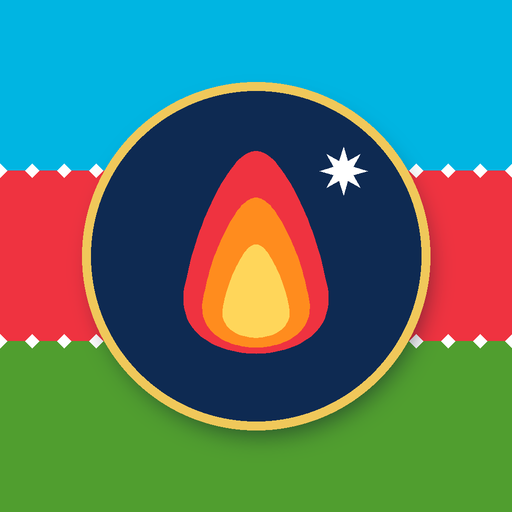
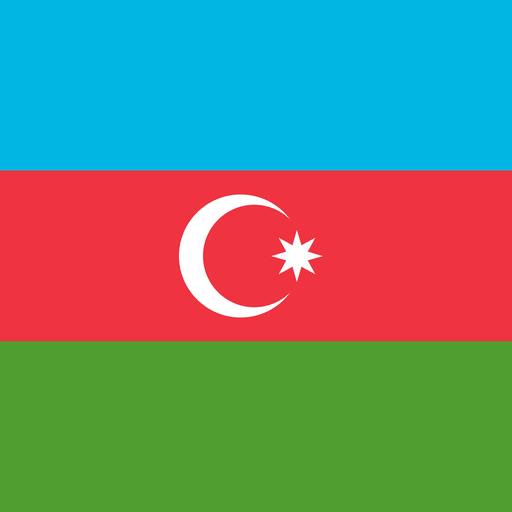
Əvvəlki fon, mavi N.B, bayraq ikonu, səslənmə ləğv
Claude-Session: https://claude.ai/code/session_01D9UJP2mnxcEteFuCEJyZeQ

diff --git a/index.html b/index.html
@@ -5,10 +5,10 @@
 <meta name="viewport" content="width=device-width, initial-scale=1, viewport-fit=cover">
 <title>Kəşf et Azərbaycan</title>
 <meta name="description" content="Azərbaycanı kəşf et: tarix, mədəniyyət, qəhrəmanlar – 18 blok, 918 test, 4 dil.">
-<meta name="theme-color" content="#3FC1D6">
-<link rel="manifest" href="manifest.webmanifest">
-<link rel="icon" type="image/png" sizes="192x192" href="icon-192.png">
-<link rel="apple-touch-icon" href="apple-touch-icon.png">
+<meta name="theme-color" content="#0E2A52">
+<link rel="manifest" href="manifest.webmanifest?v=2">
+<link rel="icon" type="image/png" sizes="192x192" href="icon-192.png?v=2">
+<link rel="apple-touch-icon" href="apple-touch-icon.png?v=2">
 <meta name="apple-mobile-web-app-capable" content="yes">
 <meta name="mobile-web-app-capable" content="yes">
 <meta name="apple-mobile-web-app-status-bar-style" content="black-translucent">
@@ -45,18 +45,18 @@ button{font:inherit;color:inherit;cursor:pointer;border:0;background:none}
 button:focus-visible,a:focus-visible{outline:3px solid var(--sky);outline-offset:2px}
 .wrap{max-width:720px;margin:0 auto;padding:0 16px 40px}
 .band{height:26px;width:100%;display:block}.flagband{height:36px}
-.hero{background:linear-gradient(160deg,#8EE3EF 0%,#3FC1D6 55%,#1AA6C0 100%);color:#0E2A52;border-radius:0 0 26px 26px;overflow:hidden;margin-bottom:18px}
-:root[data-theme="dark"] .hero{background:linear-gradient(160deg,#1C8FA5,#0E6E82);color:#fff}
-@media (prefers-color-scheme:dark){:root:not([data-theme="light"]) .hero{background:linear-gradient(160deg,#1C8FA5,#0E6E82);color:#fff}}
+.hero{background:var(--ink);color:#fff;border-radius:0 0 26px 26px;overflow:hidden;margin-bottom:18px}
+:root[data-theme="dark"] .hero{background:#0B0F26}
+@media (prefers-color-scheme:dark){:root:not([data-theme="light"]) .hero{background:#0B0F26}}
 .hero-in{padding:22px 20px 20px}
 .hero h1{font-size:clamp(34px,9vw,52px);font-weight:900;letter-spacing:-.5px}
-.hero p{margin:6px 0 16px;color:inherit;opacity:.85;font-weight:600;max-width:34ch}.hero .langsw{background:rgba(14,42,82,.14)}.hero .langsw button.on{background:#0E2A52;color:#fff}
+.hero p{margin:6px 0 16px;color:#C9D0F0;max-width:34ch}
 .meter{display:flex;gap:6px;margin-bottom:16px}
-.meter span{flex:1;height:10px;border-radius:6px;background:rgba(14,42,82,.2)}
+.meter span{flex:1;height:10px;border-radius:6px;background:#3A4270}
 .meter span.done{background:var(--leaf)}.meter span.part{background:var(--part)}
 .hero-actions{display:flex;gap:10px;flex-wrap:wrap}
-.pill{padding:11px 16px;border-radius:999px;font-weight:700;background:#fff;color:#1B2140;box-shadow:0 3px 10px rgba(14,42,82,.15)}
-.pill.alt{background:transparent;color:inherit;box-shadow:inset 0 0 0 2px currentColor}
+.pill{padding:11px 16px;border-radius:999px;font-weight:700;background:#fff;color:#1B2140}
+.pill.alt{background:transparent;color:#fff;box-shadow:inset 0 0 0 2px #fff}
 .legend{display:flex;gap:14px;flex-wrap:wrap;font-size:13px;color:var(--soft);margin:4px 2px 12px}
 .legend i{display:inline-block;width:12px;height:12px;border-radius:4px;margin-right:6px;vertical-align:-1px}
 .grid{display:grid;grid-template-columns:1fr 1fr;gap:12px}
@@ -238,9 +238,9 @@ img,svg,video{max-width:100%}
 .ntxt{font-size:15px;line-height:1.4}
 .nfoot{margin-top:10px;text-align:center;font-weight:700;font-size:14px;color:#9FD3FF;letter-spacing:.5px}
 .hrow{display:flex;align-items:center;justify-content:space-between;gap:8px;margin-bottom:14px}.eagle{flex-shrink:0;width:60px;height:60px;border-radius:50%;object-fit:cover;box-shadow:0 0 0 3px #fff,0 0 0 6px rgba(247,201,72,.8),0 6px 16px rgba(0,0,0,.3)}.hrow .langsw{margin-bottom:0}
-.sbbtn{flex-shrink:0;width:60px;height:60px;border-radius:50%;background:radial-gradient(circle at 32% 28%,#FFF3B0 0,#F7C948 38%,#E09B00 100%);color:#0E2A52;font:900 21px/1 "Noto Serif Display",Georgia,serif;letter-spacing:.5px;box-shadow:0 0 0 3px #fff,0 0 0 6px rgba(247,201,72,.7),0 6px 18px rgba(0,0,0,.4);text-shadow:0 1px 0 rgba(255,255,255,.5)}
+.sbbtn{flex-shrink:0;width:60px;height:60px;border-radius:50%;background:radial-gradient(circle at 32% 28%,#5FD6F2 0,#00B5E2 45%,#0091C0 100%);color:#fff;font:900 21px/1 "Noto Serif Display",Georgia,serif;letter-spacing:.5px;box-shadow:0 0 0 3px #fff,0 0 0 6px rgba(0,181,226,.45),0 6px 18px rgba(0,0,0,.4);text-shadow:0 2px 4px rgba(0,40,80,.55)}
 .sbbtn:active{transform:scale(.94)}
-.sbbig{width:96px;height:96px;margin:4px auto 6px;border-radius:50%;display:grid;place-items:center;background:radial-gradient(circle at 32% 28%,#FFF3B0 0,#F7C948 38%,#E09B00 100%);color:#0E2A52;font:900 32px/1 "Noto Serif Display",Georgia,serif;box-shadow:0 0 0 4px #fff,0 0 0 8px rgba(247,201,72,.4),0 6px 18px rgba(0,0,0,.25)}
+.sbbig{width:96px;height:96px;margin:4px auto 6px;border-radius:50%;display:grid;place-items:center;background:radial-gradient(circle at 32% 28%,#5FD6F2 0,#00B5E2 45%,#0091C0 100%);color:#fff;font:900 32px/1 "Noto Serif Display",Georgia,serif;box-shadow:0 0 0 4px #fff,0 0 0 8px rgba(0,181,226,.35),0 6px 18px rgba(0,0,0,.25)}
 .kgate{padding-top:18px}
 .kbrand{display:flex;align-items:center;justify-content:center;gap:10px;margin:6px 0 10px}
 .kbrand b{font:900 24px/1.2 "Noto Serif Display",Georgia,serif;color:var(--ink)}
@@ -4279,10 +4279,10 @@ const LANGS=['az','tr','en','ru'],LBL={az:'AZ',tr:'TR',en:'EN',ru:'RU'};
 let LG=(()=>{try{return localStorage.getItem('olang')||'az'}catch(e){return 'az'}})();if(!LANGS.includes(LG))LG='az';
 function setLang(l){LG=l;try{localStorage.setItem('olang',l)}catch(e){}document.documentElement.lang=l;route()}
 const UI={
-az:{app:'Kəşf et Azərbaycan',sub:'Tarixi, mədəniyyəti, qəhrəmanları və gözəllikləri ilə Azərbaycanı öyrən – oxu, dinlə, özünü yoxla.',done:'blok bitib',mix:'🎲 Qarışıq 100 sual – bütün mövzular',mist:'Səhvlərim',lDone:'Bitib',lPart:'Yarımçıq',lNew:'Başlanmayıb',best:'ən yaxşı',start:'Başla',topics:'mövzu',qs:'sual',stories:'Maraqlı hekayələr',storiesSub:'hekayə – həqiqi hadisələr və rəvayətlər',read:'oxunub',resetAll:'Bütün nəticələri sıfırla',back:'← Geri',stDone:'✓ Bitib – ən yaxşı nəticə',stPart:'sual işlənib',stNew:'Hələ işlənməyib',learn:'Öyrən',test:'Test',mistakes:'Səhvlər',cont:'Testə davam et',again:'Testi yenidən işlə',begin:'Testə başla',resetBlock:'Bu blokun nəticələrini sıfırla',q:'Sual',ok:'Düzdür!',bad:'Səhvdir. Düzgün cavab:',prev:'← Əvvəlki',finish:'Bitir',next:'Növbəti sual',mixT:'Qarışıq sual',result:'Nəticə',right:'düz cavab',m90:'Əla! Bunu artıq bilirsən.',m70:'Çox yaxşı! Səhvlərə bir də bax.',m50:'Pis deyil – bir dəfə də işlə.',m0:'Kartları bir də oxu, sonra yenidən yoxla.',redo:'Yenidən işlə',toBlocks:'Bloklara qayıt',mHint:'Bu sualı düz cavablandıranda siyahıdan çıxır.',mRedo:'Səhvləri yenidən işlə',mEmpty:'Səhvin yoxdur. Testləri işlədikcə səhv etdiyin suallar burada toplanacaq.',real:'Həqiqi hadisə',myth:'Rəvayət',markRead:'Oxudum ✓',unread:'Oxunmamış et',listen:'🔊 Dinlə:',trans:'📖 Tərcümə:',rAllQ:'Bütün nəticələr silinsin?',rBlockQ:'blokunun nəticələri silinsin?',rTxt:'Yaşıl və narıncı işarələr, ballar və səhvlər silinəcək. Öyrənmə kartları qalır.',cancel:'Ləğv et',reset:'Sıfırla',pending:'Bu bölmənin tərcüməsi hazırlanır – hələlik Azərbaycan dilində göstərilir.',lang:'Dil',sayQ:'Sualı dinlə'},
-tr:{app:'Keşfet Azerbaycan',sub:'Tarihi, kültürü, kahramanları ve güzellikleriyle Azerbaycan’ı öğren – oku, dinle, kendini sına.',done:'blok tamamlandı',mix:'🎲 Karışık 100 soru – tüm konular',mist:'Hatalarım',lDone:'Tamamlandı',lPart:'Yarım kaldı',lNew:'Başlanmadı',best:'en iyi',start:'Başla',topics:'konu',qs:'soru',stories:'İlginç hikâyeler',storiesSub:'hikâye – gerçek olaylar ve rivayetler',read:'okundu',resetAll:'Tüm sonuçları sıfırla',back:'← Geri',stDone:'✓ Tamamlandı – en iyi sonuç',stPart:'soru çözüldü',stNew:'Henüz çözülmedi',learn:'Öğren',test:'Test',mistakes:'Hatalar',cont:'Teste devam et',again:'Testi tekrar çöz',begin:'Teste başla',resetBlock:'Bu bloğun sonuçlarını sıfırla',q:'Soru',ok:'Doğru!',bad:'Yanlış. Doğru cevap:',prev:'← Önceki',finish:'Bitir',next:'Sonraki soru',mixT:'Karışık soru',result:'Sonuç',right:'doğru cevap',m90:'Harika! Bunu artık biliyorsun.',m70:'Çok iyi! Hatalarına bir daha bak.',m50:'Fena değil – bir kez daha çöz.',m0:'Kartları tekrar oku, sonra yeniden dene.',redo:'Tekrar çöz',toBlocks:'Bloklara dön',mHint:'Bu soruyu doğru cevaplayınca listeden çıkar.',mRedo:'Hataları tekrar çöz',mEmpty:'Hiç hatan yok. Testleri çözdükçe yanlış yaptığın sorular burada toplanacak.',real:'Gerçek olay',myth:'Rivayet',markRead:'Okudum ✓',unread:'Okunmadı yap',listen:'🔊 Dinle:',trans:'📖 Çeviri:',rAllQ:'Tüm sonuçlar silinsin mi?',rBlockQ:'bloğunun sonuçları silinsin mi?',rTxt:'Yeşil ve turuncu işaretler, puanlar ve hatalar silinecek. Öğrenme kartları kalır.',cancel:'İptal',reset:'Sıfırla',pending:'Bu bölümün çevirisi hazırlanıyor – şimdilik Azerbaycan Türkçesiyle gösteriliyor.',lang:'Dil',sayQ:'Soruyu dinle'},
-en:{app:'Discover Azerbaijan',sub:'Learn about Azerbaijan’s history, culture, heroes and beauty – read, listen and test yourself.',done:'sections completed',mix:'🎲 100 mixed questions – all topics',mist:'My mistakes',lDone:'Completed',lPart:'In progress',lNew:'Not started',best:'best',start:'Start',topics:'topics',qs:'questions',stories:'Fascinating stories',storiesSub:'stories – true events and legends',read:'read',resetAll:'Reset all results',back:'← Back',stDone:'✓ Completed – best score',stPart:'questions answered',stNew:'Not started yet',learn:'Learn',test:'Quiz',mistakes:'Mistakes',cont:'Continue the quiz',again:'Retake the quiz',begin:'Start the quiz',resetBlock:'Reset this section’s results',q:'Question',ok:'Correct!',bad:'Wrong. Correct answer:',prev:'← Previous',finish:'Finish',next:'Next question',mixT:'Random question',result:'Result',right:'correct answers',m90:'Excellent! You know this well.',m70:'Very good! Take another look at your mistakes.',m50:'Not bad – try it once more.',m0:'Read the cards again, then try once more.',redo:'Try again',toBlocks:'Back to sections',mHint:'A question leaves this list once you answer it correctly.',mRedo:'Practise my mistakes',mEmpty:'No mistakes yet. Questions you get wrong will appear here.',real:'True event',myth:'Legend',markRead:'Mark as read ✓',unread:'Mark as unread',listen:'🔊 Listen:',trans:'📖 Translation:',rAllQ:'Delete all results?',rBlockQ:'– delete this section’s results?',rTxt:'Green and orange marks, scores and mistakes will be deleted. The learning cards stay.',cancel:'Cancel',reset:'Reset',pending:'This part is still being translated – shown in Azerbaijani for now.',lang:'Language',sayQ:'Listen to the question'},
-ru:{app:'Открой Азербайджан',sub:'Узнайте историю, культуру, героев и красоту Азербайджана – читайте, слушайте, проверяйте себя.',done:'блоков пройдено',mix:'🎲 100 вопросов – все темы',mist:'Мои ошибки',lDone:'Пройден',lPart:'Не завершён',lNew:'Не начат',best:'лучший',start:'Начать',topics:'тем',qs:'вопросов',stories:'Интересные истории',storiesSub:'историй – реальные события и легенды',read:'прочитано',resetAll:'Сбросить все результаты',back:'← Назад',stDone:'✓ Пройден – лучший результат',stPart:'вопросов отвечено',stNew:'Ещё не начат',learn:'Учить',test:'Тест',mistakes:'Ошибки',cont:'Продолжить тест',again:'Пройти тест снова',begin:'Начать тест',resetBlock:'Сбросить результаты блока',q:'Вопрос',ok:'Верно!',bad:'Неверно. Правильный ответ:',prev:'← Назад',finish:'Завершить',next:'Следующий вопрос',mixT:'Случайный вопрос',result:'Результат',right:'правильных ответов',m90:'Отлично! Вы это хорошо знаете.',m70:'Очень хорошо! Посмотрите ещё раз на ошибки.',m50:'Неплохо – попробуйте ещё раз.',m0:'Перечитайте карточки и попробуйте снова.',redo:'Пройти снова',toBlocks:'К блокам',mHint:'Вопрос исчезает из списка, когда вы ответите на него правильно.',mRedo:'Повторить ошибки',mEmpty:'Ошибок пока нет. Здесь будут собираться вопросы, на которые вы ответили неверно.',real:'Реальное событие',myth:'Легенда',markRead:'Прочитано ✓',unread:'Отметить непрочитанным',listen:'🔊 Слушать:',trans:'📖 Перевод:',rAllQ:'Удалить все результаты?',rBlockQ:'– удалить результаты блока?',rTxt:'Зелёные и оранжевые отметки, баллы и ошибки будут удалены. Учебные карточки останутся.',cancel:'Отмена',reset:'Сбросить',pending:'Перевод этого раздела готовится – пока показан на азербайджанском.',lang:'Язык',sayQ:'Прослушать вопрос'}};
+az:{app:'Kəşf et Azərbaycan',sub:'Tarixi, mədəniyyəti, qəhrəmanları və gözəllikləri ilə Azərbaycanı öyrən – oxu və özünü yoxla.',done:'blok bitib',mix:'🎲 Qarışıq 100 sual – bütün mövzular',mist:'Səhvlərim',lDone:'Bitib',lPart:'Yarımçıq',lNew:'Başlanmayıb',best:'ən yaxşı',start:'Başla',topics:'mövzu',qs:'sual',stories:'Maraqlı hekayələr',storiesSub:'hekayə – həqiqi hadisələr və rəvayətlər',read:'oxunub',resetAll:'Bütün nəticələri sıfırla',back:'← Geri',stDone:'✓ Bitib – ən yaxşı nəticə',stPart:'sual işlənib',stNew:'Hələ işlənməyib',learn:'Öyrən',test:'Test',mistakes:'Səhvlər',cont:'Testə davam et',again:'Testi yenidən işlə',begin:'Testə başla',resetBlock:'Bu blokun nəticələrini sıfırla',q:'Sual',ok:'Düzdür!',bad:'Səhvdir. Düzgün cavab:',prev:'← Əvvəlki',finish:'Bitir',next:'Növbəti sual',mixT:'Qarışıq sual',result:'Nəticə',right:'düz cavab',m90:'Əla! Bunu artıq bilirsən.',m70:'Çox yaxşı! Səhvlərə bir də bax.',m50:'Pis deyil – bir dəfə də işlə.',m0:'Kartları bir də oxu, sonra yenidən yoxla.',redo:'Yenidən işlə',toBlocks:'Bloklara qayıt',mHint:'Bu sualı düz cavablandıranda siyahıdan çıxır.',mRedo:'Səhvləri yenidən işlə',mEmpty:'Səhvin yoxdur. Testləri işlədikcə səhv etdiyin suallar burada toplanacaq.',real:'Həqiqi hadisə',myth:'Rəvayət',markRead:'Oxudum ✓',unread:'Oxunmamış et',listen:'🔊 Dinlə:',trans:'📖 Tərcümə:',rAllQ:'Bütün nəticələr silinsin?',rBlockQ:'blokunun nəticələri silinsin?',rTxt:'Yaşıl və narıncı işarələr, ballar və səhvlər silinəcək. Öyrənmə kartları qalır.',cancel:'Ləğv et',reset:'Sıfırla',pending:'Bu bölmənin tərcüməsi hazırlanır – hələlik Azərbaycan dilində göstərilir.',lang:'Dil',sayQ:'Sualı dinlə'},
+tr:{app:'Keşfet Azerbaycan',sub:'Tarihi, kültürü, kahramanları ve güzellikleriyle Azerbaycan’ı öğren – oku ve kendini sına.',done:'blok tamamlandı',mix:'🎲 Karışık 100 soru – tüm konular',mist:'Hatalarım',lDone:'Tamamlandı',lPart:'Yarım kaldı',lNew:'Başlanmadı',best:'en iyi',start:'Başla',topics:'konu',qs:'soru',stories:'İlginç hikâyeler',storiesSub:'hikâye – gerçek olaylar ve rivayetler',read:'okundu',resetAll:'Tüm sonuçları sıfırla',back:'← Geri',stDone:'✓ Tamamlandı – en iyi sonuç',stPart:'soru çözüldü',stNew:'Henüz çözülmedi',learn:'Öğren',test:'Test',mistakes:'Hatalar',cont:'Teste devam et',again:'Testi tekrar çöz',begin:'Teste başla',resetBlock:'Bu bloğun sonuçlarını sıfırla',q:'Soru',ok:'Doğru!',bad:'Yanlış. Doğru cevap:',prev:'← Önceki',finish:'Bitir',next:'Sonraki soru',mixT:'Karışık soru',result:'Sonuç',right:'doğru cevap',m90:'Harika! Bunu artık biliyorsun.',m70:'Çok iyi! Hatalarına bir daha bak.',m50:'Fena değil – bir kez daha çöz.',m0:'Kartları tekrar oku, sonra yeniden dene.',redo:'Tekrar çöz',toBlocks:'Bloklara dön',mHint:'Bu soruyu doğru cevaplayınca listeden çıkar.',mRedo:'Hataları tekrar çöz',mEmpty:'Hiç hatan yok. Testleri çözdükçe yanlış yaptığın sorular burada toplanacak.',real:'Gerçek olay',myth:'Rivayet',markRead:'Okudum ✓',unread:'Okunmadı yap',listen:'🔊 Dinle:',trans:'📖 Çeviri:',rAllQ:'Tüm sonuçlar silinsin mi?',rBlockQ:'bloğunun sonuçları silinsin mi?',rTxt:'Yeşil ve turuncu işaretler, puanlar ve hatalar silinecek. Öğrenme kartları kalır.',cancel:'İptal',reset:'Sıfırla',pending:'Bu bölümün çevirisi hazırlanıyor – şimdilik Azerbaycan Türkçesiyle gösteriliyor.',lang:'Dil',sayQ:'Soruyu dinle'},
+en:{app:'Discover Azerbaijan',sub:'Learn about Azerbaijan’s history, culture, heroes and beauty – read and test yourself.',done:'sections completed',mix:'🎲 100 mixed questions – all topics',mist:'My mistakes',lDone:'Completed',lPart:'In progress',lNew:'Not started',best:'best',start:'Start',topics:'topics',qs:'questions',stories:'Fascinating stories',storiesSub:'stories – true events and legends',read:'read',resetAll:'Reset all results',back:'← Back',stDone:'✓ Completed – best score',stPart:'questions answered',stNew:'Not started yet',learn:'Learn',test:'Quiz',mistakes:'Mistakes',cont:'Continue the quiz',again:'Retake the quiz',begin:'Start the quiz',resetBlock:'Reset this section’s results',q:'Question',ok:'Correct!',bad:'Wrong. Correct answer:',prev:'← Previous',finish:'Finish',next:'Next question',mixT:'Random question',result:'Result',right:'correct answers',m90:'Excellent! You know this well.',m70:'Very good! Take another look at your mistakes.',m50:'Not bad – try it once more.',m0:'Read the cards again, then try once more.',redo:'Try again',toBlocks:'Back to sections',mHint:'A question leaves this list once you answer it correctly.',mRedo:'Practise my mistakes',mEmpty:'No mistakes yet. Questions you get wrong will appear here.',real:'True event',myth:'Legend',markRead:'Mark as read ✓',unread:'Mark as unread',listen:'🔊 Listen:',trans:'📖 Translation:',rAllQ:'Delete all results?',rBlockQ:'– delete this section’s results?',rTxt:'Green and orange marks, scores and mistakes will be deleted. The learning cards stay.',cancel:'Cancel',reset:'Reset',pending:'This part is still being translated – shown in Azerbaijani for now.',lang:'Language',sayQ:'Listen to the question'},
+ru:{app:'Открой Азербайджан',sub:'Узнайте историю, культуру, героев и красоту Азербайджана – читайте и проверяйте себя.',done:'блоков пройдено',mix:'🎲 100 вопросов – все темы',mist:'Мои ошибки',lDone:'Пройден',lPart:'Не завершён',lNew:'Не начат',best:'лучший',start:'Начать',topics:'тем',qs:'вопросов',stories:'Интересные истории',storiesSub:'историй – реальные события и легенды',read:'прочитано',resetAll:'Сбросить все результаты',back:'← Назад',stDone:'✓ Пройден – лучший результат',stPart:'вопросов отвечено',stNew:'Ещё не начат',learn:'Учить',test:'Тест',mistakes:'Ошибки',cont:'Продолжить тест',again:'Пройти тест снова',begin:'Начать тест',resetBlock:'Сбросить результаты блока',q:'Вопрос',ok:'Верно!',bad:'Неверно. Правильный ответ:',prev:'← Назад',finish:'Завершить',next:'Следующий вопрос',mixT:'Случайный вопрос',result:'Результат',right:'правильных ответов',m90:'Отлично! Вы это хорошо знаете.',m70:'Очень хорошо! Посмотрите ещё раз на ошибки.',m50:'Неплохо – попробуйте ещё раз.',m0:'Перечитайте карточки и попробуйте снова.',redo:'Пройти снова',toBlocks:'К блокам',mHint:'Вопрос исчезает из списка, когда вы ответите на него правильно.',mRedo:'Повторить ошибки',mEmpty:'Ошибок пока нет. Здесь будут собираться вопросы, на которые вы ответили неверно.',real:'Реальное событие',myth:'Легенда',markRead:'Прочитано ✓',unread:'Отметить непрочитанным',listen:'🔊 Слушать:',trans:'📖 Перевод:',rAllQ:'Удалить все результаты?',rBlockQ:'– удалить результаты блока?',rTxt:'Зелёные и оранжевые отметки, баллы и ошибки будут удалены. Учебные карточки останутся.',cancel:'Отмена',reset:'Сбросить',pending:'Перевод этого раздела готовится – пока показан на азербайджанском.',lang:'Язык',sayQ:'Прослушать вопрос'}};
 const U=k=>(UI[LG]&&UI[LG][k])||UI.az[k];
 const BT={
 adet:{tr:['Gelenek ve Görenekler','Misafirperverlik, çay, düğün, Nevruz ve günlük hayatın güzel gelenekleri.'],en:['Customs and Traditions','Hospitality, tea, weddings, Novruz and the beautiful customs of daily life.'],ru:['Обычаи и традиции','Гостеприимство, чай, свадьба, Новруз и прекрасные обычаи повседневной жизни.']},
@@ -4316,7 +4316,7 @@ function sP(s,l){l=l||LG;return l==='az'?s.p:(s[l]||null)}
 
 /* ============ SƏSLƏNDİRMƏ ============ */
 let SPK=[];
-const HAS_TTS='speechSynthesis' in window;
+const HAS_TTS=false; /* səslənmə ləğv edilib */
 const LCODE={az:'az',tr:'tr',ru:'ru',en:'en'},LNAME={az:'Azərbaycan',tr:'Türk',ru:'Rus',en:'İngilis'};
 const TTSUI={
 az:{std:'standart səs',pause:'⏸ Fasilə',resume:'▶ Davam',prev:'Əvvəlki cümlə',next:'Növbəti cümlə',voice:'Səs seçimi',stop:'Dayandır',vt:'səsi',pick:'Ən aydın səsi seçin – seçiminiz yadda qalır.',none:'Telefonunuzda bu dil üçün səs tapılmadı. Telefonun “Mətndən nitqə” (Text-to-Speech) ayarlarından bu dilin səsini yükləyin.',close:'Bağla',nott:'Bu brauzerdə səsləndirmə dəstəklənmir.',azfb:'Telefonunuzda Azərbaycan dili səsi yoxdur – mətn türk səsi ilə oxunur.',miss:'Bu dil üçün səs tapılmadı. Telefonun “Mətndən nitqə” ayarlarından səs yükləyin.'},
@@ -4399,7 +4399,7 @@ function home(){
       <h1>${U('app')}</h1>
       <p>${U('sub')}</p>
       <div class="meter">${[...st,sst].map(s=>`<span class="${s==='new'?'':s}"></span>`).join('')}</div>
-      <div style="margin:-8px 0 14px;opacity:.8;font-weight:600;font-size:14px">${done} / ${TOT} ${U('done')}</div>
+      <div style="margin:-8px 0 14px;color:#C9D0F0;font-size:14px">${done} / ${TOT} ${U('done')}</div>
       <div class="hero-actions">
         <button class="pill" onclick="go('qarisiq')">${U('mix')}</button>
         <button class="pill alt" onclick="go('sehvler-hamisi')">${U('mist')} (${wn})</button>
